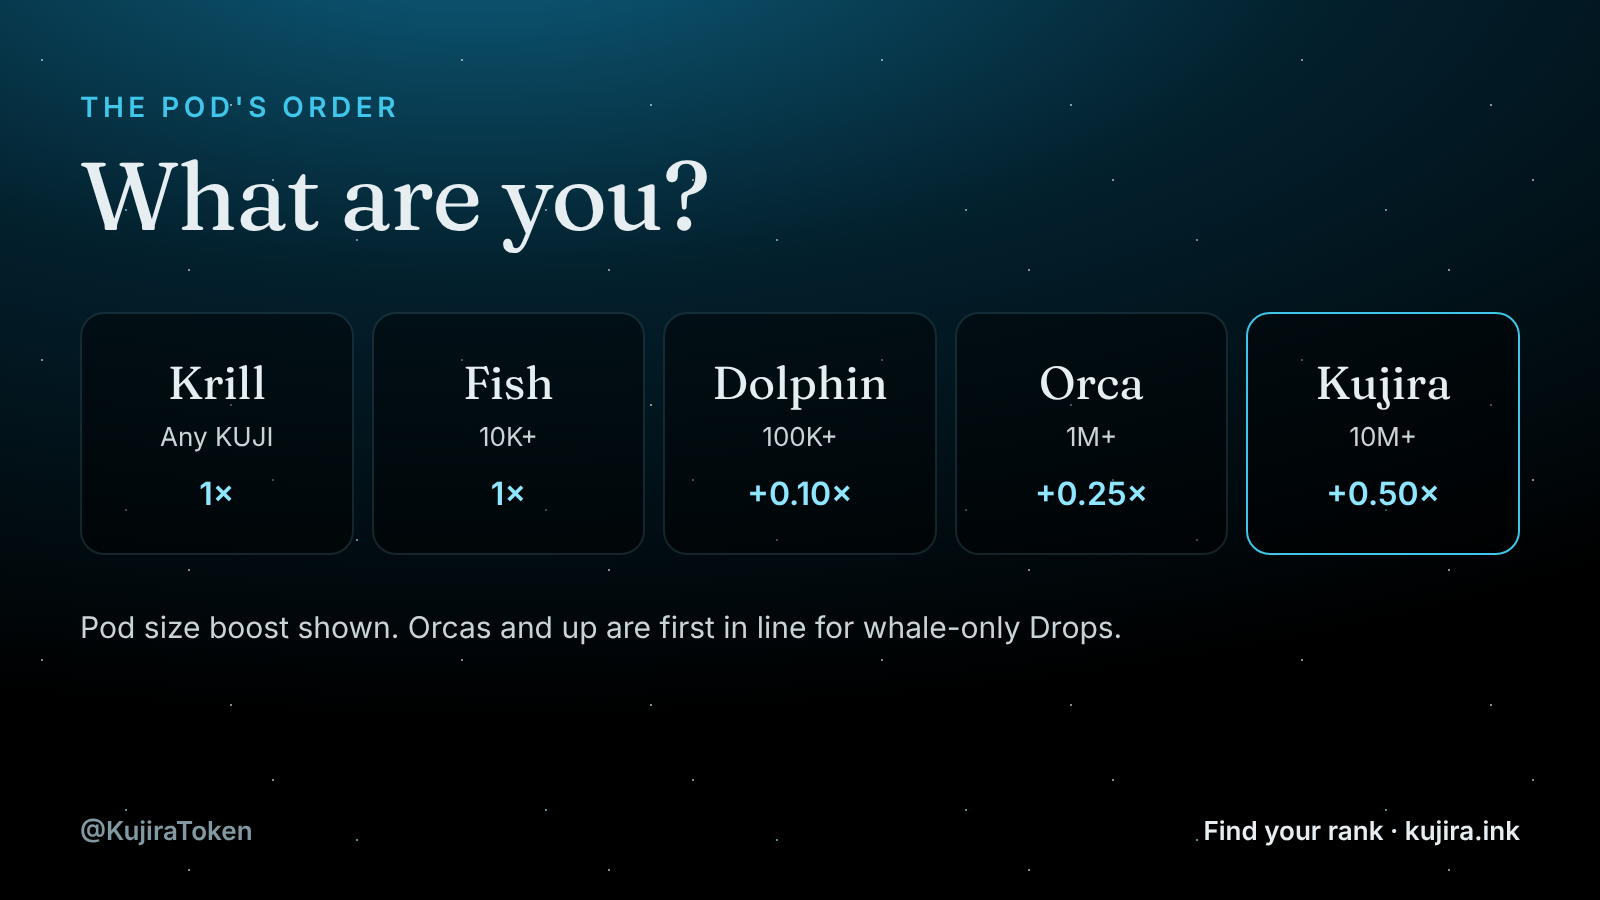
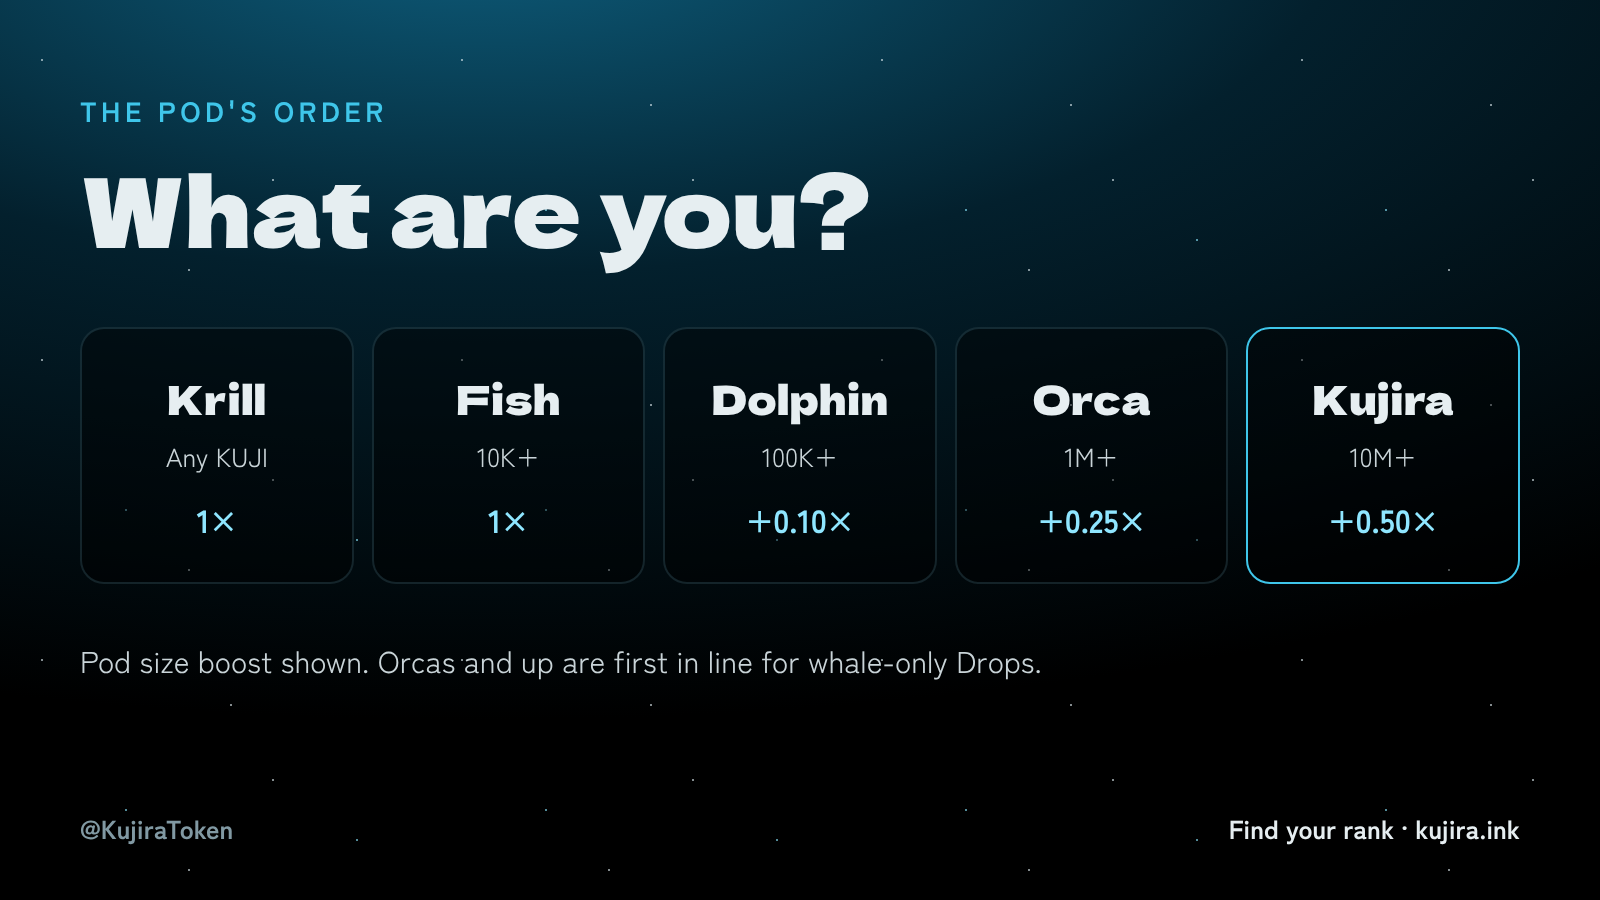
Set the site, share cards and X images in Dela Gothic One
Headings, numbers and the tategaki column use Dela Gothic One; body text uses
Zen Kaku Gothic New. The Japanese faces are subset to the kanji the site uses
(about 4 KB each) and kept in site/fonts. Fraunces, Inter and Poppins are removed.

Claude-Session: https://claude.ai/code/session_01XxZqz6aMt2Q9VCvZQpjXkg

diff --git a/site/style.css b/site/style.css
@@ -1,9 +1,10 @@
-@font-face { font-family: "Fraunces"; font-weight: 400; font-display: swap; src: url(fonts/fraunces-400.woff2) format("woff2"); }
-@font-face { font-family: "Fraunces"; font-weight: 400; font-style: italic; font-display: swap; src: url(fonts/fraunces-400-italic.woff2) format("woff2"); }
-@font-face { font-family: "Fraunces"; font-weight: 600; font-display: swap; src: url(fonts/fraunces-600.woff2) format("woff2"); }
-@font-face { font-family: "Inter"; font-weight: 400; font-display: swap; src: url(fonts/inter-400.woff2) format("woff2"); }
-@font-face { font-family: "Inter"; font-weight: 500; font-display: swap; src: url(fonts/inter-500.woff2) format("woff2"); }
-@font-face { font-family: "Inter"; font-weight: 600; font-display: swap; src: url(fonts/inter-600.woff2) format("woff2"); }
+@font-face { font-family: "Dela"; font-weight: 400; font-display: swap; src: url(fonts/dela-400.woff2) format("woff2"); }
+@font-face { font-family: "Dela"; font-weight: 400; font-display: swap; src: url(fonts/dela-ja.woff2) format("woff2"); unicode-range: U+3000-9FFF, U+FF00-FFEF; }
+@font-face { font-family: "Zen"; font-weight: 400; font-display: swap; src: url(fonts/zen-400.woff2) format("woff2"); }
+@font-face { font-family: "Zen"; font-weight: 500; font-display: swap; src: url(fonts/zen-500.woff2) format("woff2"); }
+@font-face { font-family: "Zen"; font-weight: 700; font-display: swap; src: url(fonts/zen-700.woff2) format("woff2"); }
+@font-face { font-family: "Zen"; font-weight: 400 500; font-display: swap; src: url(fonts/zen-ja-400.woff2) format("woff2"); unicode-range: U+3000-9FFF, U+FF00-FFEF; }
+@font-face { font-family: "Zen"; font-weight: 700; font-display: swap; src: url(fonts/zen-ja-700.woff2) format("woff2"); unicode-range: U+3000-9FFF, U+FF00-FFEF; }
 
 /* Colours come from the whale logo's ice-cyan glow over deep water. */
 :root {
@@ -17,8 +18,8 @@
   --accent-hi: #8fe6ff;
   --ok: #8fd6a8;
   --err: #ff8a8a;
-  --serif: "Fraunces", Georgia, "Times New Roman", serif;
-  --sans: "Inter", system-ui, -apple-system, "Segoe UI", sans-serif;
+  --serif: "Dela", "Zen", system-ui, sans-serif;
+  --sans: "Zen", system-ui, -apple-system, "Segoe UI", sans-serif;
   color-scheme: dark;
 }
 * { box-sizing: border-box; }
@@ -30,6 +31,7 @@ body {
   font: 400 17px/1.7 var(--sans);
   overflow-x: hidden;
   -webkit-font-smoothing: antialiased;
+  font-synthesis: none;
 }
 .addr { letter-spacing: 0.01em; font-variant-numeric: tabular-nums; }
 h1, h2, h3 { font-family: var(--serif); font-weight: 400; color: var(--head); margin: 0; letter-spacing: -0.01em; }
@@ -53,7 +55,7 @@ a { color: var(--accent-hi); }
   color: var(--text); background: rgba(0, 0, 0, 0.6); border: 1px solid var(--line);
   backdrop-filter: blur(6px); pointer-events: none;
 }
-#gauge b { color: var(--accent-hi); font-weight: 600; font-variant-numeric: tabular-nums; }
+#gauge b { color: var(--accent-hi); font-weight: 700; font-variant-numeric: tabular-nums; }
 #gauge .arrow { color: var(--accent); }
 
 nav {
@@ -79,9 +81,9 @@ nav {
 .axis-label { right: 12px; top: 10px; color: var(--muted); }
 .hero-copy { padding: 34px 4px 0; }
 .eyebrow { margin: 0 0 12px; font: 500 13px var(--sans); letter-spacing: 0.12em; text-transform: uppercase; color: var(--accent); }
-.hero h1 { font-size: clamp(42px, 11vw, 76px); line-height: 1.02; letter-spacing: -0.02em; }
+.hero h1 { font-size: clamp(36px, 10vw, 68px); line-height: 1.12; letter-spacing: -0.01em; }
 .lede { margin: 20px 0 0; font-size: clamp(18px, 4.6vw, 21px); line-height: 1.6; max-width: 36em; }
-.lede.strong { color: var(--head); font-family: var(--serif); font-style: italic; font-size: clamp(20px, 5vw, 24px); }
+.lede.strong { color: var(--head); font-family: var(--serif); font-size: clamp(19px, 4.8vw, 23px); line-height: 1.45; }
 .hero-actions { display: flex; flex-wrap: wrap; gap: 10px; margin-top: 28px; }
 #sing.singing { box-shadow: 0 0 0 6px rgba(63, 198, 234, 0.18), 0 0 30px rgba(63, 198, 234, 0.55); }
 
@@ -97,7 +99,7 @@ nav {
 
 /* ---------------------------------------------------------------- story sections */
 main { max-width: 760px; margin: 0 auto; padding: 64px 16px; display: grid; grid-template-columns: minmax(0, 1fr); gap: 80px; }
-.zone-label { margin: 0 0 14px; font: 600 12px var(--sans); letter-spacing: 0.14em; text-transform: uppercase; color: var(--accent); }
+.zone-label { margin: 0 0 14px; font: 700 12px var(--sans); letter-spacing: 0.14em; text-transform: uppercase; color: var(--accent); }
 .story h2 { font-size: clamp(30px, 7.4vw, 46px); line-height: 1.12; margin-bottom: 22px; }
 .story > p { margin: 0 0 18px; font-size: clamp(17px, 4.4vw, 19px); }
 .muted { color: var(--muted); margin: 0; font-size: 15px; }
@@ -108,17 +110,17 @@ main { max-width: 760px; margin: 0 auto; padding: 64px 16px; display: grid; grid
 
 .tenets { list-style: none; margin: 0; padding: 0; display: grid; gap: 14px; }
 .tenets li { padding: 14px 16px; border-radius: 14px; background: var(--panel); border: 1px solid var(--line); line-height: 1.6; }
-.tenets b { display: block; color: var(--head); font-weight: 600; }
+.tenets b { display: block; color: var(--head); font-weight: 700; }
 
 .boosts { list-style: none; margin: 6px 0 14px; padding: 0; display: grid; gap: 8px; }
 .boosts li { display: flex; flex-wrap: wrap; gap: 6px 16px; align-items: baseline; padding: 12px 16px; border-radius: 14px; background: var(--panel); border: 1px solid var(--line); font-size: 15px; }
-.boosts b { color: var(--head); font-weight: 600; min-width: 46px; }
-.boosts em { font-style: normal; color: var(--accent-hi); font-weight: 600; }
+.boosts b { color: var(--head); font-weight: 700; min-width: 46px; }
+.boosts em { font-style: normal; color: var(--accent-hi); font-weight: 700; }
 
 .supply { margin: -6px 0 22px; font: 400 clamp(30px, 8vw, 46px)/1.1 var(--serif); color: var(--accent-hi); }
 .alloc { list-style: none; margin: 0; padding: 0; display: grid; gap: 18px; }
 .alloc .label { display: flex; justify-content: space-between; gap: 12px; font-size: 16px; }
-.alloc .label b { font-weight: 600; color: var(--head); }
+.alloc .label b { font-weight: 700; color: var(--head); }
 .alloc .track { height: 6px; border-radius: 3px; background: var(--line); margin-top: 6px; overflow: hidden; }
 .alloc .fill { height: 100%; background: linear-gradient(90deg, #0a4a62, var(--accent)); }
 .alloc .note { font-size: 14px; color: var(--muted); margin-top: 4px; }
@@ -147,7 +149,7 @@ main { max-width: 760px; margin: 0 auto; padding: 64px 16px; display: grid; grid
   text-decoration: none; white-space: nowrap; transition: background 0.15s, border-color 0.15s;
 }
 .btn.small { padding: 8px 16px; font-size: 14px; }
-.btn.solid { background: var(--accent); border-color: var(--accent); color: #00141c; font-weight: 600; }
+.btn.solid { background: var(--accent); border-color: var(--accent); color: #00141c; font-weight: 700; }
 .btn:hover:not(:disabled) { border-color: var(--accent-hi); }
 .btn.solid:hover:not(:disabled) { background: var(--accent-hi); }
 .btn:disabled { opacity: 0.4; cursor: not-allowed; }
@@ -172,7 +174,7 @@ input:focus { outline: 2px solid var(--accent); outline-offset: 1px; }
 .stats { display: grid; grid-template-columns: 1fr 1fr; gap: 14px 16px; margin: 0; }
 .stats div { min-width: 0; }
 dt { color: var(--muted); font-size: 13px; }
-dd { margin: 0; font-weight: 600; color: var(--head); font-variant-numeric: tabular-nums; overflow-wrap: anywhere; line-height: 1.5; }
+dd { margin: 0; font-weight: 700; color: var(--head); font-variant-numeric: tabular-nums; overflow-wrap: anywhere; line-height: 1.5; }
 .boost-note { margin-top: 12px; font-size: 14px; }
 #poke { margin-top: 10px; width: 100%; }
 .boost-note[hidden] { display: none; }
@@ -196,11 +198,11 @@ dd { margin: 0; font-weight: 600; color: var(--head); font-variant-numeric: tabu
 .tiers li { padding: 12px 4px; text-align: center; border-radius: 14px; border: 1px solid var(--line); background: var(--panel); }
 .tiers b { display: block; font: 400 17px/1.3 var(--serif); color: var(--head); }
 .tiers span { display: block; font-size: 10px; color: var(--muted); line-height: 1.5; }
-.tiers .tier-boost { color: var(--accent-hi); font-weight: 600; font-size: 11px; }
+.tiers .tier-boost { color: var(--accent-hi); font-weight: 700; font-size: 11px; }
 .tiers li.me { border-color: var(--accent); box-shadow: 0 0 20px rgba(63, 198, 234, 0.35); }
 .tiers li.me b { color: var(--accent-hi); }
-.rank-name { margin: 0; font: 400 46px/1.15 var(--serif); color: var(--accent-hi); }
-.held { margin: 10px 0 0; color: var(--head); font-weight: 600; }
+.rank-name { margin: 0; font: 400 40px/1.2 var(--serif); color: var(--accent-hi); }
+.held { margin: 10px 0 0; color: var(--head); font-weight: 700; }
 #rank-panel .track { height: 4px; border-radius: 2px; background: var(--line); margin-top: 12px; overflow: hidden; }
 #rank-panel .fill { height: 100%; background: var(--accent); }
 #rank-panel .btn { margin-top: 16px; }
@@ -220,7 +222,7 @@ dialog::backdrop { background: rgba(0, 0, 0, 0.75); }
 #card-img { display: block; width: 100%; height: auto; margin-bottom: 14px; border-radius: 12px; }
 
 /* Whalepaper */
-.paper .hero h1 { font-size: clamp(40px, 10vw, 64px); }
+.paper .hero h1 { font-size: clamp(34px, 9vw, 58px); }
 .paper-mark { width: 88px; height: 88px; border-radius: 50%; box-shadow: 0 0 50px rgba(63, 198, 234, 0.35); }
 
 @media (prefers-reduced-motion: reduce) {
@@ -228,22 +230,22 @@ dialog::backdrop { background: rgba(0, 0, 0, 0.75); }
   .rings, .rings::before, .rings::after, .ping span::before, .ping span::after { animation: none; }
 }
 
-/* Lore: set like a sea tale in a book. Serif in sentence case, a vertical Japanese column
-   (tategaki) and a thin rule, rather than the all-caps slabs other lore sites use. */
+/* Lore: Dela Gothic One heads in sentence case beside a vertical Japanese column (tategaki)
+   and a thin rule, rather than the all-caps slabs other lore sites use. */
 .lore-head {
   margin: 0 0 22px; color: var(--head); font-family: var(--serif); font-weight: 400;
-  font-size: clamp(28px, 7vw, 42px); line-height: 1.18; letter-spacing: -0.01em;
+  font-size: clamp(25px, 6.4vw, 38px); line-height: 1.28; letter-spacing: 0;
 }
 .lore-body { margin: 0 0 18px; font-size: clamp(17px, 4.4vw, 19px); }
 .tale { display: grid; grid-template-columns: auto minmax(0, 1fr); gap: 18px; align-items: start; }
 .tategaki {
   margin: 4px 0 0; writing-mode: vertical-rl; text-orientation: upright;
-  font-size: 15px; letter-spacing: 0.5em; color: var(--accent);
+  font: 400 16px var(--serif); letter-spacing: 0.4em; color: var(--accent);
   padding-right: 14px; border-right: 1px solid rgba(63, 198, 234, 0.45);
 }
-.tale .lore-head { font-size: clamp(30px, 7.6vw, 46px); }
+.tale .lore-head { font-size: clamp(21px, 5.4vw, 30px); line-height: 1.42; }
 .tale .lore-head::first-letter { color: var(--accent-hi); }
-.tale .lore-body { font-family: var(--serif); font-style: italic; font-size: clamp(19px, 5vw, 23px); line-height: 1.6; color: var(--text); }
-.sig { margin: 22px 0 0; font: 600 13px var(--sans); letter-spacing: 0.16em; text-transform: uppercase; color: var(--muted); }
+.tale .lore-body { font-size: clamp(17px, 4.5vw, 20px); line-height: 1.75; color: var(--text); }
+.sig { margin: 22px 0 0; font: 700 13px var(--sans); letter-spacing: 0.16em; text-transform: uppercase; color: var(--muted); }
 .btn.singing { box-shadow: 0 0 0 6px rgba(63, 198, 234, 0.18), 0 0 30px rgba(63, 198, 234, 0.55); }
 .copy { margin: 14px 0 0; color: var(--head); font-size: 14px; }

diff --git a/brand/templates.html b/brand/templates.html
@@ -4,13 +4,16 @@
 <meta charset="utf-8">
 <!-- Artboards for the X account, rendered to PNG by render.js. Each .board is one image. -->
 <style>
-  @font-face { font-family: S; font-weight: 400; src: url(../node_modules/@fontsource/fraunces/files/fraunces-latin-400-normal.woff2); }
-  @font-face { font-family: S; font-weight: 400; font-style: italic; src: url(../node_modules/@fontsource/fraunces/files/fraunces-latin-400-italic.woff2); }
-  @font-face { font-family: I; font-weight: 400; src: url(../node_modules/@fontsource/inter/files/inter-latin-400-normal.woff2); }
-  @font-face { font-family: I; font-weight: 600; src: url(../node_modules/@fontsource/inter/files/inter-latin-600-normal.woff2); }
+  @font-face { font-family: S; font-weight: 400; src: url(../node_modules/@fontsource/dela-gothic-one/files/dela-gothic-one-latin-400-normal.woff2); }
+  @font-face { font-family: S; font-weight: 400; src: url(../site/fonts/dela-ja.woff2); unicode-range: U+3000-9FFF, U+FF00-FFEF; }
+  @font-face { font-family: I; font-weight: 400; src: url(../node_modules/@fontsource/zen-kaku-gothic-new/files/zen-kaku-gothic-new-latin-400-normal.woff2); }
+  @font-face { font-family: I; font-weight: 700; src: url(../node_modules/@fontsource/zen-kaku-gothic-new/files/zen-kaku-gothic-new-latin-700-normal.woff2); }
+  @font-face { font-family: I; font-weight: 400; src: url(../site/fonts/zen-ja-400.woff2); unicode-range: U+3000-9FFF, U+FF00-FFEF; }
+  @font-face { font-family: I; font-weight: 700; src: url(../site/fonts/zen-ja-700.woff2); unicode-range: U+3000-9FFF, U+FF00-FFEF; }
   :root { --head: #e6eef1; --text: #c9d4d8; --muted: #8199a3; --accent: #3fc6ea; --hi: #8fe6ff; --line: #1c2a31; }
   body { margin: 0; background: #111; display: grid; gap: 40px; padding: 40px; }
   .board {
+    font-synthesis: none;
     position: relative; overflow: hidden; color: var(--text);
     font-family: I, sans-serif; font-weight: 400;
     background: radial-gradient(120% 90% at 30% -10%, #0e6080 0%, #03202d 45%, #000 100%);
@@ -29,16 +32,16 @@
     box-shadow: 0 0 0 14px rgba(0,0,0,0.5), 0 0 0 17px rgba(63,198,234,0.18), 0 0 120px rgba(63,198,234,0.35); }
   .coin img { width: 112%; height: 112%; margin: -6%; display: block; }
   h1, h2, p { margin: 0; }
-  .k { color: var(--accent); font-weight: 600; letter-spacing: 0.16em; text-transform: uppercase; }
-  .big { color: var(--head); font-family: S, serif; font-weight: 400; line-height: 1.08; letter-spacing: -0.015em; }
-  .foot { position: absolute; left: 80px; right: 80px; bottom: 54px; display: flex; justify-content: space-between; font-weight: 600; font-size: 26px; color: var(--muted); }
+  .k { color: var(--accent); font-weight: 700; letter-spacing: 0.16em; text-transform: uppercase; }
+  .big { color: var(--head); font-family: S, serif; font-weight: 400; line-height: 1.18; letter-spacing: -0.005em; }
+  .foot { position: absolute; left: 80px; right: 80px; bottom: 54px; display: flex; justify-content: space-between; font-weight: 700; font-size: 26px; color: var(--muted); }
   .wave { position: absolute; left: 0; right: 0; height: 3px; background: linear-gradient(90deg, transparent, rgba(170,240,255,0.95) 20%, rgba(170,240,255,0.95) 80%, transparent); box-shadow: 0 0 18px rgba(63,198,234,0.9); }
-  .foot b { color: var(--head); font-weight: 600; }
+  .foot b { color: var(--head); font-weight: 700; }
   .post { width: 1600px; height: 900px; }
   .post .body { position: absolute; left: 80px; top: 90px; right: 80px; }
   .rule { height: 6px; background: linear-gradient(90deg, var(--accent), transparent); width: 220px; margin: 28px 0; }
   .chips { display: flex; flex-wrap: wrap; gap: 14px; margin-top: 40px; }
-  .chips span { border: 2px solid rgba(143,230,255,0.45); border-radius: 999px; padding: 12px 26px; font-weight: 600; font-size: 26px; color: var(--head); background: rgba(0,0,0,0.35); }
+  .chips span { border: 2px solid rgba(143,230,255,0.45); border-radius: 999px; padding: 12px 26px; font-weight: 700; font-size: 26px; color: var(--head); background: rgba(0,0,0,0.35); }
 </style>
 </head>
 <body>
@@ -50,7 +53,7 @@
   <p class="k" style="position:absolute;left:40px;top:340px;font-size:18px;color:var(--hi)">52 Hz</p>
   <div style="position:absolute;right:90px;top:80px;text-align:right">
     <p class="k" style="font-size:22px">Kujira · 鯨 · on Ink</p>
-    <h1 class="big" style="font-size:92px;margin-top:14px">Something has been<br>growing in the deep.</h1>
+    <h1 class="big" style="font-size:80px;margin-top:14px">Something has been<br>growing in the deep.</h1>
     <p style="font-size:22px;color:var(--muted);margin-top:24px;font-weight:600">No team · No tax · Liquidity locked forever · kujira.ink</p>
   </div>
 </div>
@@ -65,7 +68,7 @@
   <img class="ghost" src="../site/img/mark-800.webp" style="width:1000px;right:-260px;top:-120px">
   <div class="body">
     <p class="k" style="font-size:28px">The Whalepaper · 漁師</p>
-    <h2 class="big" style="font-size:100px;margin-top:26px;max-width:1150px">A fisherman found a whale in his net.<br><i>He cut the net.</i></h2>
+    <h2 class="big" style="font-size:84px;margin-top:26px;max-width:1250px">A fisherman found a whale in his net.<br><span style="color:var(--hi)">He cut the net.</span></h2>
     <div class="rule"></div>
     <p style="font-size:34px;max-width:1100px;line-height:1.6">One billion KUJI on Ink. Nothing kept back. The whale belongs to whoever swims with it.</p>
     <div class="chips"><span>No team tokens</span><span>No tax</span><span>No mint</span><span>Liquidity locked</span><span>Code verified</span></div>
@@ -95,9 +98,9 @@
   <img class="ghost" src="../site/img/mark-800.webp" style="width:900px;right:-200px;top:40px">
   <div class="body">
     <p class="k" style="font-size:28px">The Pod</p>
-    <h2 class="big" style="font-size:92px;margin-top:20px;max-width:1150px">Most memecoins punish patience.<br><i>The Pod pays for it.</i></h2>
+    <h2 class="big" style="font-size:80px;margin-top:20px;max-width:1250px">Most memecoins punish patience.<br><span style="color:var(--hi)">The Pod pays for it.</span></h2>
     <div style="display:flex;gap:80px;margin-top:70px;align-items:flex-end">
-      <div><p style="font-size:210px;line-height:0.9;font-family:S,serif;color:var(--hi)">2.5×</p><p class="k" style="font-size:26px;margin-top:18px">Max reward boost</p></div>
+      <div><p style="font-size:180px;line-height:0.95;font-family:S,serif;color:var(--hi)">2.5×</p><p class="k" style="font-size:26px;margin-top:18px">Max reward boost</p></div>
       <div style="font-size:32px;line-height:1.9">
         <p><b style="color:var(--head);font-weight:600">Size</b> · up to +0.50× at 10M KUJI</p>
         <p><b style="color:var(--head);font-weight:600">Time</b> · +0.25× every 30 days, up to +1.00×</p>
@@ -113,7 +116,7 @@
   <img class="ghost" src="../site/img/mark-800.webp" style="width:1000px;right:-240px;top:-80px">
   <div class="body">
     <p class="k" style="font-size:28px">The Drop · Round 1</p>
-    <h2 class="big" style="font-size:80px;margin-top:20px;max-width:1150px">When the whale breaches, the spray falls on all who stand near.</h2>
+    <h2 class="big" style="font-size:70px;margin-top:20px;max-width:1250px">When the whale breaches, the spray falls on all who stand near.</h2>
     <div style="display:flex;gap:90px;margin-top:50px">
       <div><p style="font-size:120px;font-family:S,serif;color:var(--hi);line-height:1">14,981</p><p class="k" style="font-size:24px;margin-top:14px">Ink DEX traders</p></div>
       <div><p style="font-size:120px;font-family:S,serif;color:var(--hi);line-height:1">81,766</p><p class="k" style="font-size:24px;margin-top:14px">KUJI each</p></div>
@@ -127,7 +130,7 @@
 <div class="board snow post" id="ryoshi">
   <div class="body">
     <p class="k" style="font-size:28px">漁師 · The fisherman's rules</p>
-    <h2 class="big" style="font-size:92px;margin-top:20px">The fisherman keeps none of the whale.</h2>
+    <h2 class="big" style="font-size:80px;margin-top:20px">The fisherman keeps none of the whale.</h2>
     <div style="display:grid;grid-template-columns:1fr 1fr;gap:20px 60px;margin-top:60px;font-size:34px;line-height:1.5">
       <p><b style="color:var(--hi);font-family:S,serif;font-weight:400;font-size:72px">0%</b><br>Team tokens</p>
       <p><b style="color:var(--hi);font-family:S,serif;font-weight:400;font-size:72px">0%</b><br>Buy and sell tax</p>
@@ -143,7 +146,7 @@
   for (const t of document.querySelectorAll(".tier")) {
     t.style.cssText = "border:2px solid rgba(143,230,255,0.14);border-radius:24px;background:rgba(0,0,0,0.45);padding:40px 10px;text-align:center";
     if (t.dataset.n === "Kujira") t.style.borderColor = "var(--accent)";
-    t.innerHTML = `<p style="font-size:46px;font-family:S,serif;color:var(--head)">${t.dataset.n}</p>` +
+    t.innerHTML = `<p style="font-size:40px;font-family:S,serif;color:var(--head)">${t.dataset.n}</p>` +
       `<p style="font-size:26px;margin-top:10px">${t.dataset.m}</p>` +
       `<p style="font-size:32px;margin-top:22px;color:var(--hi);font-weight:600">${t.dataset.b}</p>`;
   }

diff --git a/site/app.js b/site/app.js
@@ -472,9 +472,10 @@
 
   async function drawCard({ kicker, title, sub, address }) {
     await Promise.all([
-      document.fonts.load('400 80px "Fraunces"'),
-      document.fonts.load('400 30px "Inter"'),
-      document.fonts.load('600 26px "Inter"'),
+      document.fonts.load('400 80px "Dela"'),
+      document.fonts.load('400 30px "Zen"'),
+      document.fonts.load('700 26px "Zen"'),
+      document.fonts.load('400 24px "Dela"', "鯨"),
       markImg.decode().catch(() => {}),
     ]);
     const W = 1200, H = 675;
@@ -524,22 +525,22 @@
     // text
     const x = 580;
     g.fillStyle = "#3fc6ea";
-    g.font = '600 24px "Inter"';
+    g.font = '700 24px "Zen"';
     g.fillText(kicker.toUpperCase(), x, 210);
     g.fillStyle = "#eef6f8";
-    let size = 104;
-    g.font = `400 ${size}px "Fraunces"`;
+    let size = 92;
+    g.font = `400 ${size}px "Dela"`;
     while (g.measureText(title).width > W - x - 60 && size > 40) {
       size -= 4;
-      g.font = `400 ${size}px "Fraunces"`;
+      g.font = `400 ${size}px "Dela"`;
     }
     g.fillText(title, x, 210 + size + 20);
     g.fillStyle = "#c3d3d9";
-    g.font = '400 30px "Inter"';
+    g.font = '400 30px "Zen"';
     wrap(g, sub, x, 210 + size + 90, W - x - 60, 44);
 
     g.fillStyle = "#7f99a3";
-    g.font = '500 24px "Inter"';
+    g.font = '500 24px "Zen"';
     g.fillText(short(address), x, H - 70);
     g.fillStyle = "#eef6f8";
     g.textAlign = "right";

diff --git a/scripts/build-site.js b/scripts/build-site.js
@@ -30,14 +30,13 @@ if (fs.existsSync(path.join(root, "wallet", "node_modules"))) {
   console.warn("wallet/node_modules missing: run `npm ci --prefix wallet` to include Privy login");
 }
 fs.mkdirSync(path.join(out, "data"));
-fs.mkdirSync(path.join(out, "fonts"));
+// site/fonts/ holds the Japanese subsets (only the kanji the site uses); Latin comes from fontsource.
+fs.mkdirSync(path.join(out, "fonts"), { recursive: true });
 const fonts = {
-  "fraunces-400": "fraunces/files/fraunces-latin-400-normal.woff2",
-  "fraunces-400-italic": "fraunces/files/fraunces-latin-400-italic.woff2",
-  "fraunces-600": "fraunces/files/fraunces-latin-600-normal.woff2",
-  "inter-400": "inter/files/inter-latin-400-normal.woff2",
-  "inter-500": "inter/files/inter-latin-500-normal.woff2",
-  "inter-600": "inter/files/inter-latin-600-normal.woff2",
+  "dela-400": "dela-gothic-one/files/dela-gothic-one-latin-400-normal.woff2",
+  "zen-400": "zen-kaku-gothic-new/files/zen-kaku-gothic-new-latin-400-normal.woff2",
+  "zen-500": "zen-kaku-gothic-new/files/zen-kaku-gothic-new-latin-500-normal.woff2",
+  "zen-700": "zen-kaku-gothic-new/files/zen-kaku-gothic-new-latin-700-normal.woff2",
 };
 for (const [name, file] of Object.entries(fonts)) {
   fs.copyFileSync(path.join(root, "node_modules/@fontsource", file), path.join(out, "fonts", `${name}.woff2`));
